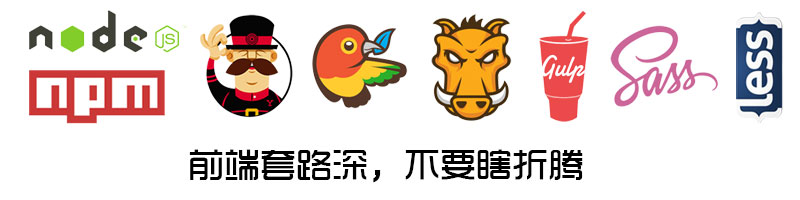
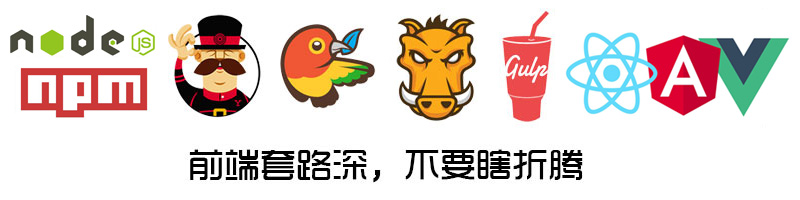
修改banner和头像

diff --git a/themes/snippet/source/css/style.css b/themes/snippet/source/css/style.css
@@ -518,7 +518,7 @@ pre {
   font-family: "Georgia", "Xin Gothic", "Hiragino Sans GB", "Droid Sans Fallback", "Microsoft YaHei", "SimSun", sans-serif;
   color: #333;
   font-size: 1.17em;
-  margin: 1em 0;
+  margin: 2em 0 .8em;
   font-weight: bold;
 }
 .post-content h4 {

diff --git a/source/_posts/一些神奇的JS功效.md b/source/_posts/一些神奇的JS功效.md
@@ -1,0 +1,59 @@
+---
+title: 一些神奇的JS功效
+tags:
+  - JavaScript
+categories: 前端
+abbrlink: 63713
+date: 2017-04-23 17:16:55
+---
+
+### 沉睡排序
+```js
+var numbers=[1,2,3,4,5,5,99,4,20,11,200];
+numbers.forEach((num)=>{
+   setTimeout(()=>{
+       console.log(num)
+   },num)
+})
+```
+
+### 快速去重 (ES6)
+```js
+var arr = Array.from(new Set([1,2,3,4,4,3,5,6,7,8,8]));
+```
+
+### 单行写一个评级组件
+```js
+"★★★★★☆☆☆☆☆".slice(5 - rate, 10 - rate);
+//定义一个变量rate是1到5的值，然后执行上面代码
+```
+
+### 论如何优雅的取整
+```js
+var a = ~~2.33
+
+var b= 2.33 | 0
+
+var c= 2.33 >> 0
+```
+
+### 短路表达式
+```js
+// 条件判断
+
+var a = b && 1
+// 相当于
+if (b) {
+    a = 1
+} else {
+    a = b
+}
+
+var a = b || 1
+// 相当于
+if (b) {
+    a = b
+} else {
+    a = 1
+}
+```

diff --git a/source/_posts/vue跳转后滚动条如何回到顶部.md b/source/_posts/vue跳转后滚动条如何回到顶部.md
@@ -1,0 +1,18 @@
+---
+title: vue跳转后滚动条如何回到顶部
+date: 2017-07-14 17:03:25
+abbrlink: 13522
+categories: 前端
+tags:
+  - vue
+---
+
+>当你页面滑动到页面中间，然后页面跳转时滚动条会保持在页面中间位置
+如何让跳转后滚动条回到顶部呢？
+试试在main.js入口文件配合vue-router写这个
+
+```js
+router.afterEach((to,from,next) => {
+    window.scrollTo(0,0);
+});
+```

diff --git a/source/_posts/Javascript中数组的迭代方法.md b/source/_posts/Javascript中数组的迭代方法.md
@@ -1,0 +1,10 @@
+---
+title: Javascript中数组的迭代方法
+abbrlink: 16016
+date: 2018-06-21 23:07:10
+categories: 前端
+tags:
+  - JavaScript
+---
+
+![Javascript中数组的迭代方法](16016/001.png)
